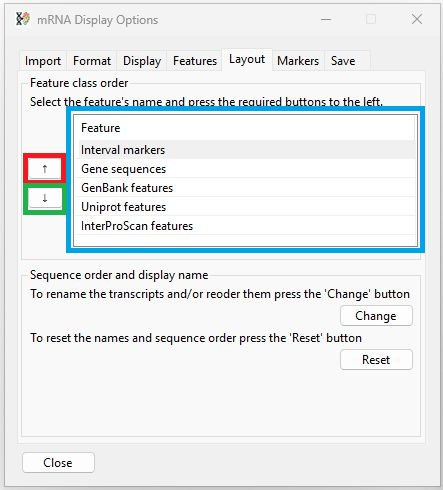
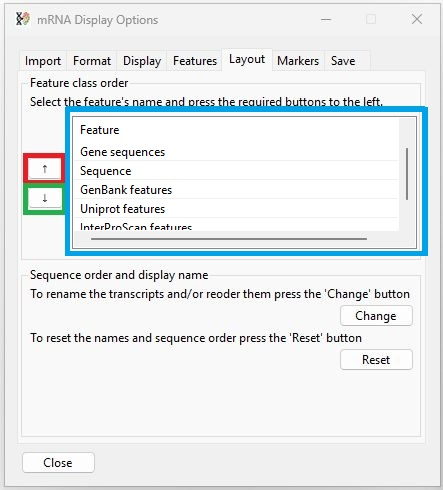
Creating user guide

Changed region(s): [[0.1174, 0.2143, 0.9684, 0.551]]

diff --git a/TransGBViewer/mRNADisplayOptions.cs b/TransGBViewer/mRNADisplayOptions.cs
@@ -57,7 +57,9 @@ namespace TransGBViewer
                 }
 
                 foreach (string file in genbankFiles)
-                { ReadGenBankFile(file); }
+                { 
+                    ReadGenBankFile(file); 
+                }
 
                 if (genbankFiles.Count == 0)
                 { MessageBox.Show("No GenBank files in folder."); return; }
@@ -434,16 +436,9 @@ namespace TransGBViewer
         private Dictionary<string, exonGraphNode> makeMinimumExonSet()
         {
             Dictionary<string, exonGraphNode> exonSetDict = new Dictionary<string, exonGraphNode>();
-            foreach (string name in parameters.SequenceNames)
-            {
-                //if (parameters.Exons.ContainsKey(name) == false)
-                //{
-                //    Point e = new Point(1, parameters.SequenceDNA[name].Length - 1);
-                //    List<Point> es = new List<Point>();
-                //    es.Add(e);
-                //    parameters.Exons.Add(name, es);
-                //}
-                if (parameters.Exons.ContainsKey(name) == false) continue;
+            foreach (string name in parameters.Exons.Keys)
+            {                
+                
                 List<Point> exons = parameters.Exons[name];
                 foreach (Point exon in exons)
                 {
@@ -473,7 +468,7 @@ namespace TransGBViewer
 
             foreach (string name in parameters.SequenceNames)
             {
-                if (parameters.Exons.ContainsKey(Name) == false) continue;
+                if (parameters.Exons.ContainsKey(name) == false) continue;
                 List<Point> exons = parameters.Exons[name];
                 string previousSequence = "";
                 string sequence = "";
@@ -3072,6 +3067,7 @@ namespace TransGBViewer
 
             foreach (string name in parameters.SequenceNames)
             {
+                if (parameters.Exons.ContainsKey(name) == false) continue;
                 if (parameters.CDSs.ContainsKey(name) == false) continue;
                 Point orf = parameters.CDSs[name];
                 int[] frame = Enumerable.Repeat(9, lengthOfConsnsus).ToArray();

diff --git a/Guide/ContentsSection.md b/Guide/ContentsSection.md
@@ -102,6 +102,10 @@
     - [Renaming a transcript](LAYOUT.md#renaming-a-transcript)
   - [Resetting the transcript display names, order and reselecting omitted transcripts](LAYOUT.md#resetting-the-transcript-display-names-order-and-reselecting-omitted-transcripts)
    
+## Highlighting DNA sequences of interest
+## List of contents
+
+
 ## Add markers to highlight specific features
 ## List of contents
 - [Manually annotating the transcripts and features in the image](MARKERS.md#manually-annotating-the-transcripts-and-features-in-the-image)

diff --git a/Guide/LAYOUT.md b/Guide/LAYOUT.md
@@ -27,6 +27,7 @@ In the previous tabs, you could create an image displaying aligned transcript se
 - GenBank file metadata (green box in Figure 2)
 - UniProt features (red box in Figure 2)
 - InterProScan features (grey box in Figure 2)
+- DNA sequences of interest (not shown)
 
 ![Figure 2](images/figureLayout2.jpg)
 
